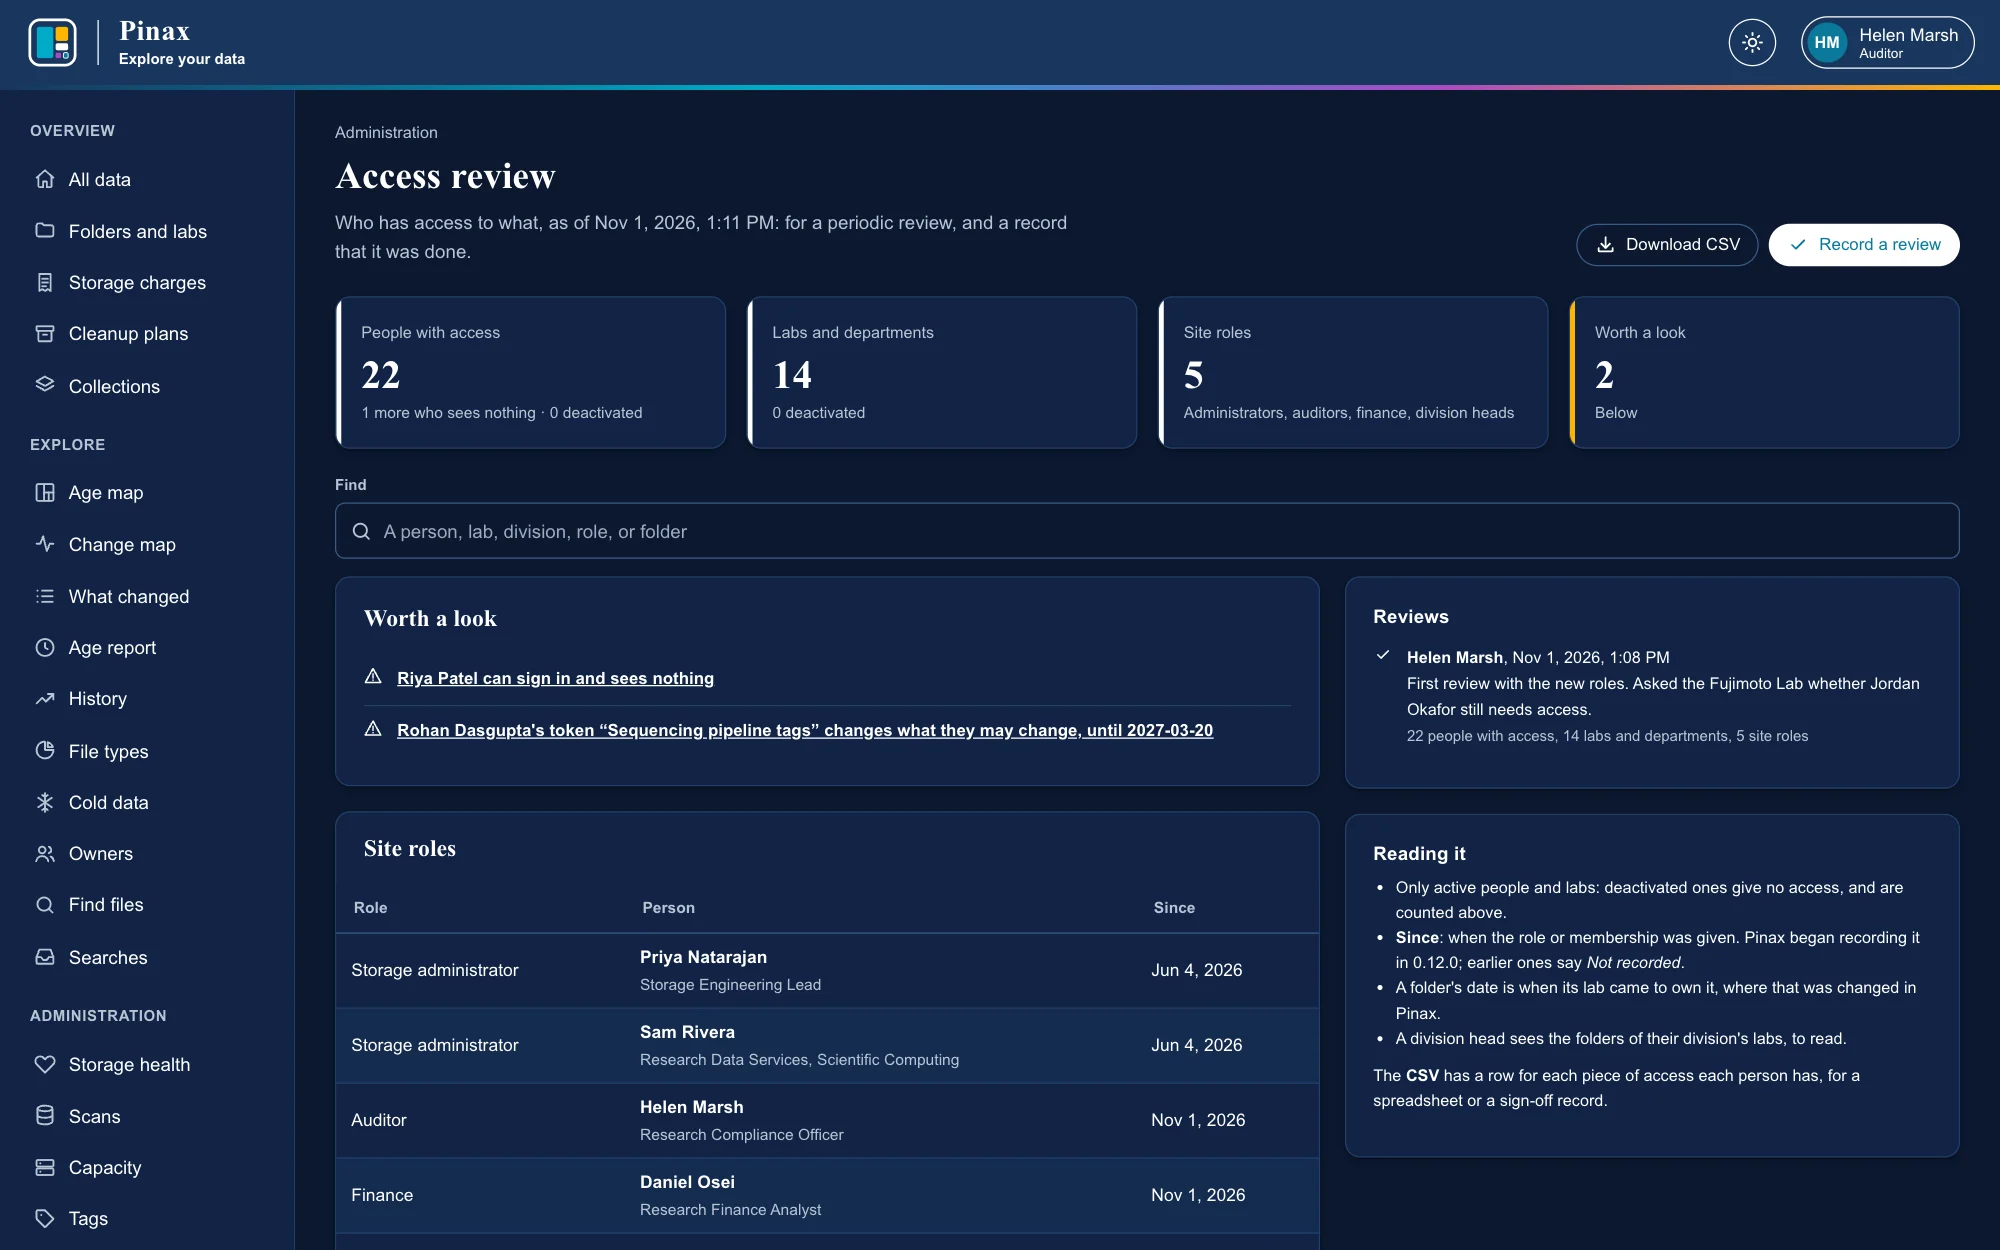
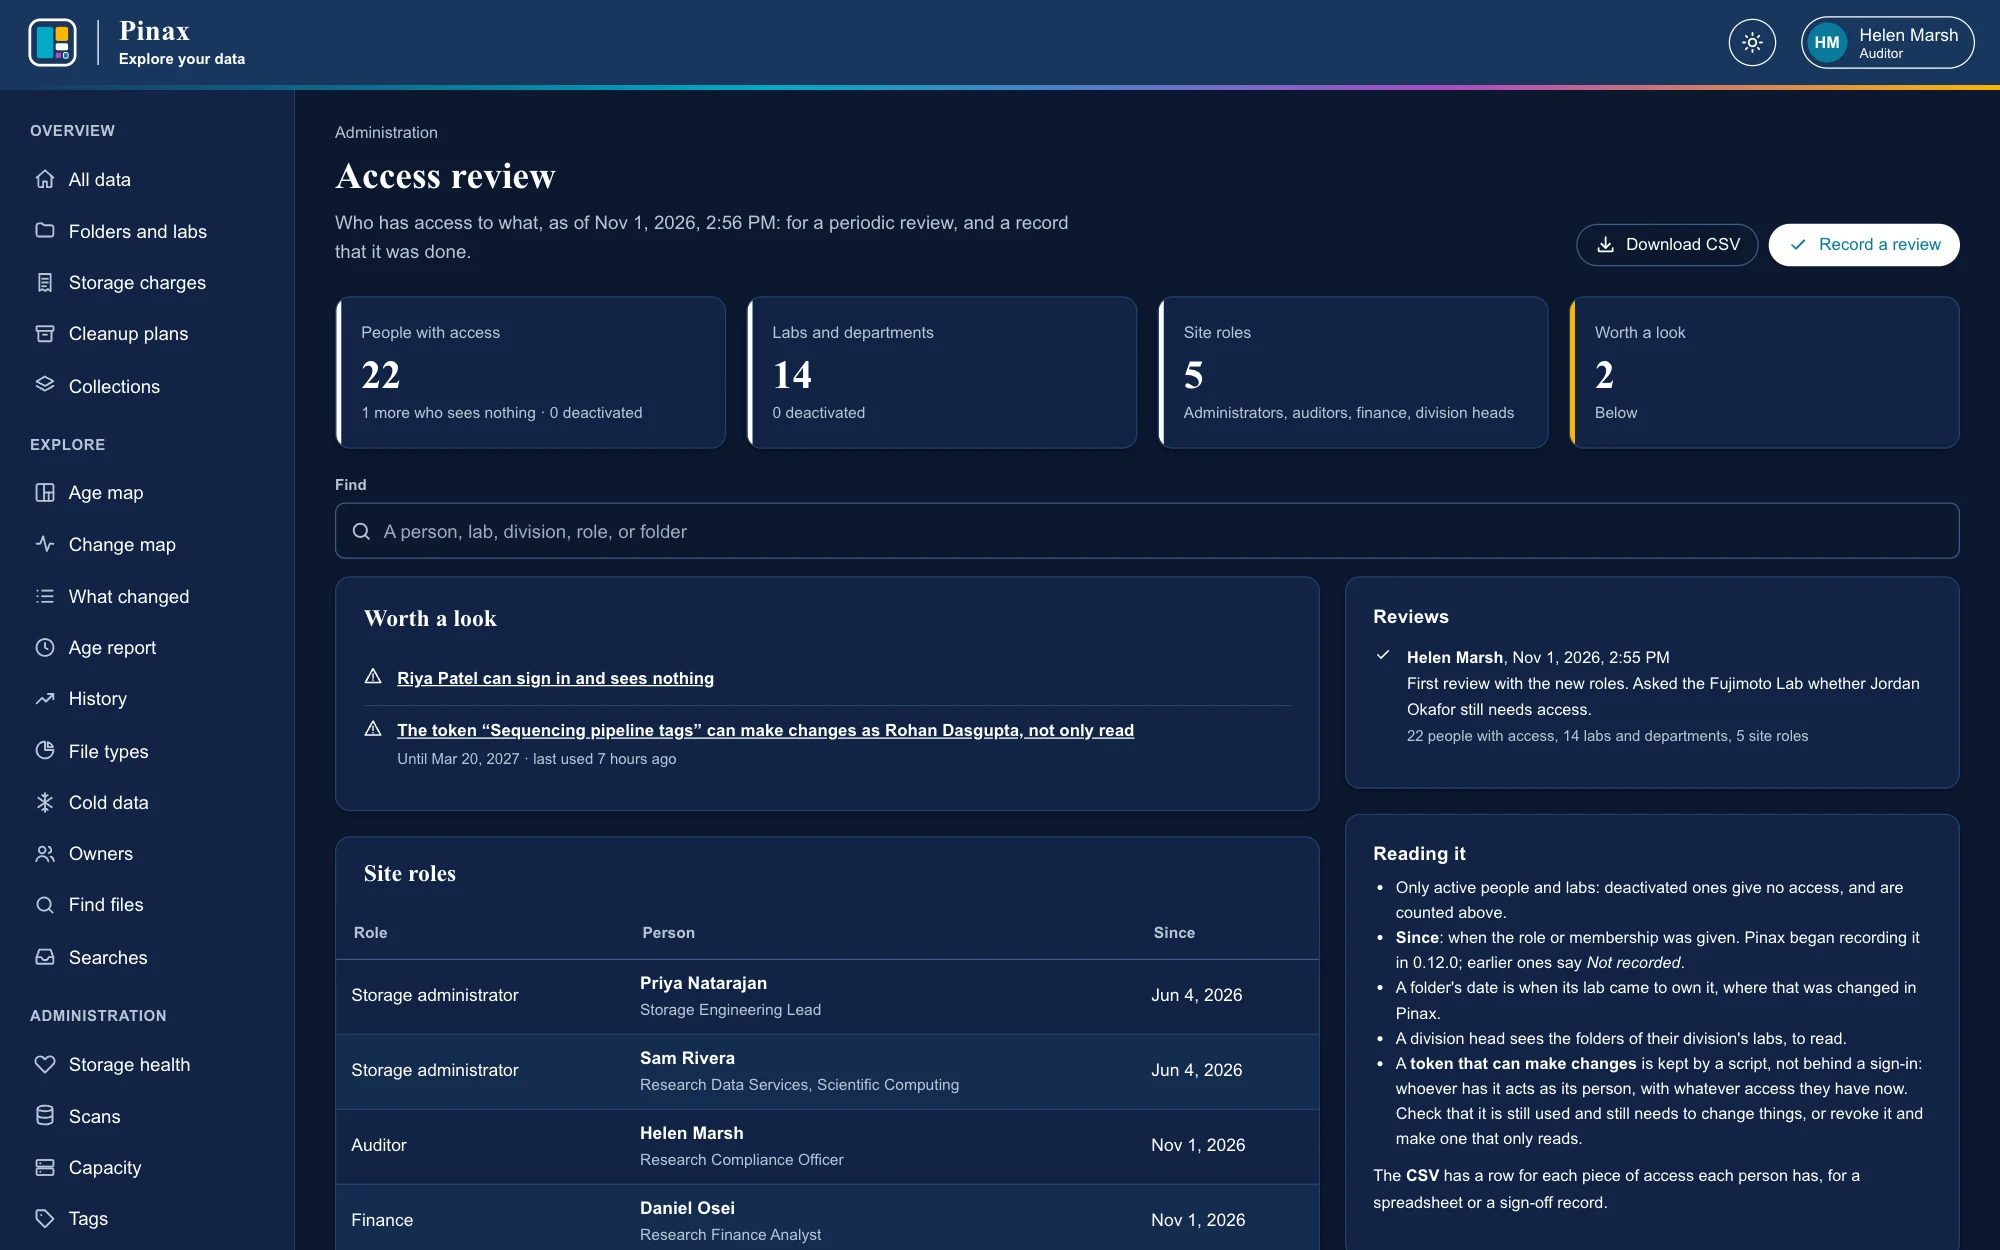
Access review: say why a token that can make changes is worth a look
The item now reads "The token "…" can make changes as …, not only read",
with when it expires and was last used, and Reading it says what such a
token risks: kept by a script rather than behind a sign-in, it acts as its
person with whatever access they have now. Check that it is still used and
still needs to change things, or revoke it and make one that only reads.
The administration guide, walk-through, and screenshot follow.

diff --git a/src/pinax/static/js/review.js b/src/pinax/static/js/review.js
@@ -34,7 +34,8 @@ function render(el, r) {
     <div class="grid split">
       <div class="stack">
         ${r.attention.length ? html`<div class="card"><div class="card-head"><h2>Worth a look</h2></div>
-          <ul class="feed">${r.attention.map((a) => html`<li data-find="${text(a.text)}">${icon("alert")}<a href="${a.href}">${a.text}</a></li>`)}</ul></div>` : ""}
+          <ul class="feed">${r.attention.map((a) => html`<li data-find="${text(a.text)}">${icon("alert")}<span><a href="${a.href}">${a.text}</a>
+            ${a.kind === "token" ? html`<div class="tiny muted" style="margin-top:2px">Until ${date(a.expires_at)} · ${a.last_used_at ? html`last used ${when(a.last_used_at)}` : "never used"}</div>` : ""}</span></li>`)}</ul></div>` : ""}
         <div class="card flush"><div class="card-head"><h2>Site roles</h2></div>
           <div class="table-wrap"><table class="table compact"><thead><tr><th>Role</th><th>Person</th><th>Since</th></tr></thead><tbody>
           ${r.roles.map((x) => html`<tr data-find="${text(x.label, x.division, x.person.display_name, x.person.username)}">
@@ -71,6 +72,9 @@ function render(el, r) {
             <li><b>Since</b>: when the role or membership was given. Pinax began recording it in 0.12.0; earlier ones say <i>Not recorded</i>.</li>
             <li>A folder's date is when its lab came to own it, where that was changed in Pinax.</li>
             <li>A division head sees the folders of their division's labs, to read.</li>
+            <li>A <b>token that can make changes</b> is kept by a script, not behind a sign-in: whoever has it acts as its
+              person, with whatever access they have now. Check that it is still used and still needs to change things,
+              or revoke it and make one that only reads.</li>
             ${local ? html`<li>Worth a look includes people with access who have not signed in for ${r.idle_days} days.</li>` : ""}
           </ul>
           <p class="small" style="margin-top:10px">The <b>CSV</b> has a row for each piece of access each person has, for a spreadsheet or a sign-off record.</p></div>

diff --git a/src/pinax/review.py b/src/pinax/review.py
@@ -6,8 +6,9 @@
   members and their roles (with when each was given), and the heads of its division.
 - **People**: each active person's access, the folders they see and why, when they last signed in (local sign-in),
   and their live API tokens.
-- **Worth a look**: active labs with no PI or owner, people who can sign in and see nothing, tokens that change
-  what their person may change, and, with local sign-in, people with access who have not signed in for 90 days.
+- **Worth a look**: active labs with no PI or owner, people who can sign in and see nothing, tokens that can make
+  changes as their person (a credential kept by a script, with whatever access its person has now), and, with local
+  sign-in, people with access who have not signed in for 90 days.
 - **Sign-off**: recording that the access was reviewed, with a note, is audited (`access.reviewed`) and listed;
   it changes no one's access, so auditors may record it too.
 
@@ -143,8 +144,9 @@ def gather(session: Session) -> dict:
     for u in active_users:
         for t in tokens.get(u.id, []):
             if not t.read_only:
-                attention.append({"kind": "token", "text": f"{u.display_name}'s token “{t.name}” changes what they may "
-                                  f"change, until {t.expires_at:%Y-%m-%d}", "href": f"#/access/people/{u.username}"})
+                attention.append({"kind": "token", "text": f"The token “{t.name}” can make changes as {u.display_name}, "
+                                  "not only read", "href": f"#/access/people/{u.username}",
+                                  "expires_at": iso(t.expires_at), "last_used_at": iso(t.last_used_at)})
     if local:
         idle = now - timedelta(days=IDLE_DAYS)
         for p, u in zip(people, active_users, strict=True):

diff --git a/tests/test_review.py b/tests/test_review.py
@@ -127,8 +127,10 @@ def test_tokens_and_idle_people_are_worth_a_look(people, monkeypatch):
     people.post("/api/tokens", json={"name": "Pipeline", "days": 30, "read_only": False})
     people.post("/api/tokens", json={"name": "Report", "days": 30})
     r = _review(people)
-    assert any(a["kind"] == "token" and "“Pipeline”" in a["text"] for a in r["attention"])
-    assert not any("Report" in a["text"] for a in r["attention"])
+    token = next(a for a in r["attention"] if a["kind"] == "token")
+    assert token["text"] == "The token “Pipeline” can make changes as Ada, not only read"
+    assert token["href"] == "#/access/people/ada" and token["expires_at"] and token["last_used_at"] is None
+    assert not any("Report" in a["text"] for a in r["attention"])  # reads only
     ada = {p["username"]: p for p in r["people"]}["ada"]
     assert ada["tokens"] == 2 and ada["tokens_with_access"] == 1
     assert not any(a["kind"] == "idle" for a in r["attention"])  # sign-ins are not known behind single sign-on

diff --git a/docs/DEMO.md b/docs/DEMO.md
@@ -210,10 +210,10 @@ files are sparse, on a laptop's disk), so the capacities are set, and use is mea
     for every token made and revoked, or the filesystem *Fast* and the folder `dasgupta_r` for everything done to
     that lab's folder. *Download CSV* has them all.
 20. **Access review.** Still as Helen, *Access review*: two things worth a look (Riya Patel, who can sign in and
-    sees nothing, and Rohan Dasgupta's token that changes his lab's tags), every site role, each lab's members and
-    folders, and each person's access, with when each was given. Type `Basic Sciences` in *Find* for that division:
-    its three labs and Grace Whitfield. Her review is under *Reviews*; *Record a review* adds another, and it is in
-    the audit log.
+    sees nothing, and Rohan Dasgupta's *Sequencing pipeline tags*, a token that can make changes as Rohan, such as
+    tagging the lab's folders), every site role, each lab's members and folders, and each person's access, with when
+    each was given. Type `Basic Sciences` in *Find* for that division: its three labs and Grace Whitfield.
+    Helen's review is under *Reviews*; *Record a review* adds another, and it is in the audit log.
 21. **Import from CSV.** In a terminal, `uv run pinax import examples/import` lists the 14 changes the example
     files would make: two departments, a lab, three people, their memberships, and owners for the three unmapped
     folders. Add `--apply`, and *Folders and labs* shows no unmapped folders; every change is in the audit log.

diff --git a/docs/ADMINISTRATION.md b/docs/ADMINISTRATION.md
@@ -146,8 +146,10 @@ Who has access to what, as of now, for a periodic review (a recertification) and
 *Access review*, in the sidebar of administrators and auditors, has:
 
 - **Worth a look**: active labs and departments with no PI or owner, people who can sign in and see nothing, API
-  tokens that change what their person may change, and, with local sign-in, people with access who have not signed
-  in for 90 days.
+  tokens that can make changes, and, with local sign-in, people with access who have not signed in for 90 days. A
+  token that can make changes is kept by a script, not behind a sign-in, so whoever has it acts as its person, with
+  whatever access that person has now (more, if they are given more): each shows when it expires and was last used.
+  Check that it is still used and still needs to change things; if not, revoke it and make one that only reads.
 - **Site roles**: every storage administrator, auditor, finance officer, and division head, with when each was
   given.
 - **Labs and departments**: each one's members and their roles, with when each was given, the heads of its

diff --git a/pinax-spec/roadmap.md b/pinax-spec/roadmap.md
@@ -1459,6 +1459,9 @@ reach, at the maintainer's request.
      ledger import's token; Grace Whitfield, head of Basic Sciences, on her division's three labs, reading a
      folder's tags and plan. Each checked on a fresh demo. A plan with nothing in it now tells those who read it
      who adds to it, rather than inviting them to. The demo has 23 people.
+   - The access review's token item says why it is worth a look: *The token “…” can make changes as …, not only
+     read*, with when it expires and was last used; *Reading it* says what such a token risks (kept by a script, it
+     acts as its person, with whatever access they have now) and what to check. The screenshot re-captured.
    - Version 0.12.0 in `pyproject.toml`, `pinax.__version__`, and `uv.lock`; `CHANGELOG.md` dated, with notes on
      upgrading from 0.11.0 (migrations `0002` to `0005`, the oauth2-proxy's `skip_auth_routes`, and
      `PINAX_TOKEN_MAX_DAYS`); the deployment guide installs v0.12.0; the website's home page names the release.

diff --git a/CHANGELOG.md b/CHANGELOG.md
@@ -49,7 +49,7 @@ restart Pinax ([Upgrading](docs/DEPLOYMENT.md#upgrading)).
   Every audit event now records the address of the request that made it. The demo's site roles are given by its
   administrator, so they are in its audit log.
 - **Access review.** *Access review*, for administrators and auditors: what is worth a look (labs with no PI,
-  people who see nothing, tokens that change things, and, with local sign-in, people who have not signed in for 90
+  people who see nothing, tokens that can make changes as their person, and, with local sign-in, people who have not signed in for 90
   days), every site role, each lab's members and folders, and each person's access and what they see, with when
   each was given; *Find* across them; a CSV with a row for each piece of access; and *Record a review*, audited
   (`access.reviewed`), which auditors may do too ([Access review](docs/ADMINISTRATION.md#access-review)). Pinax now
